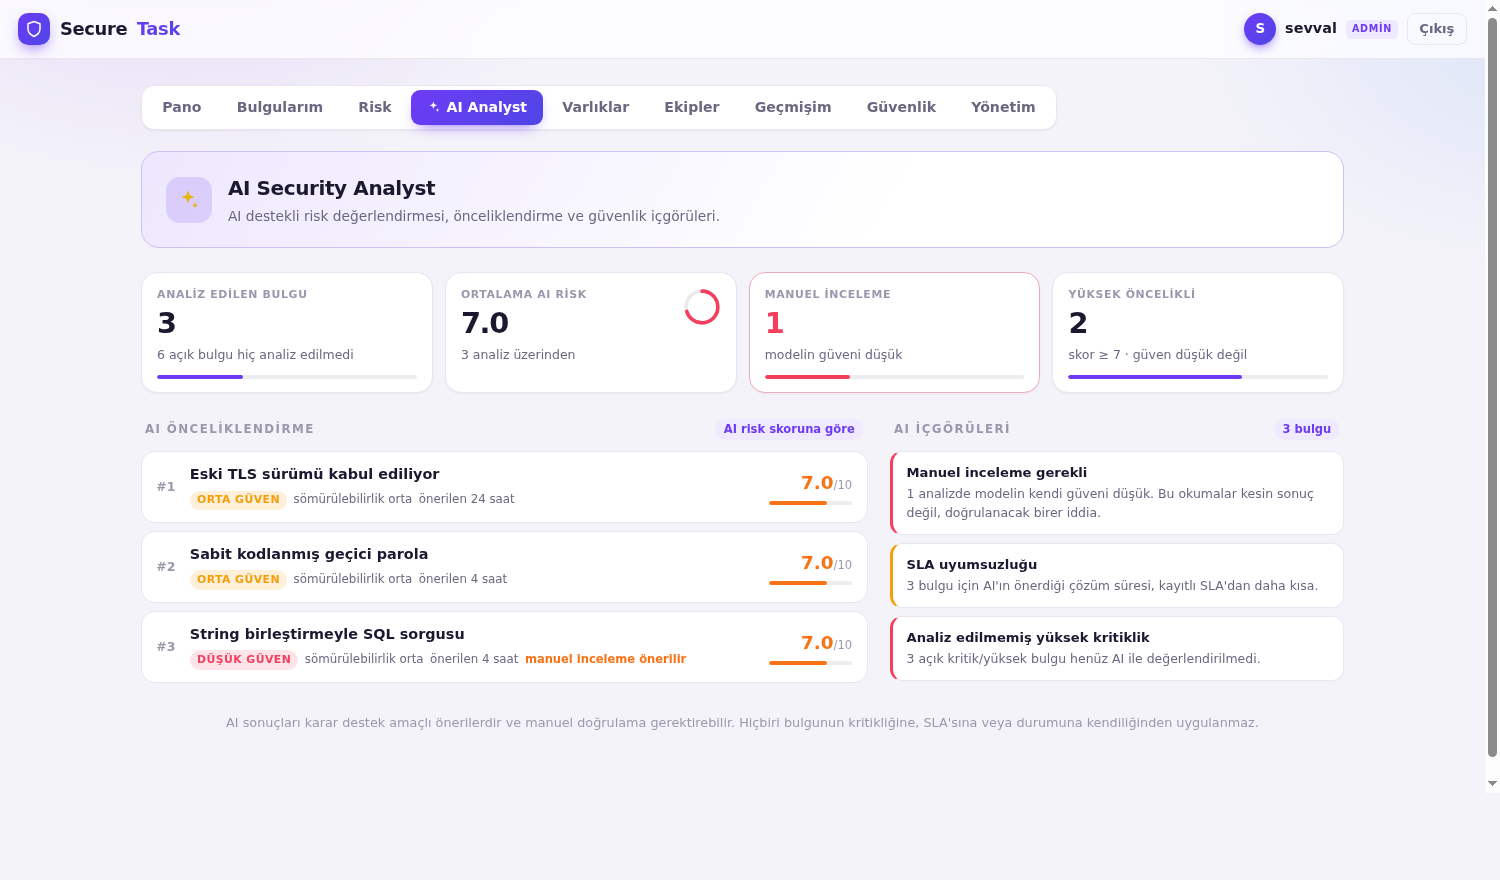
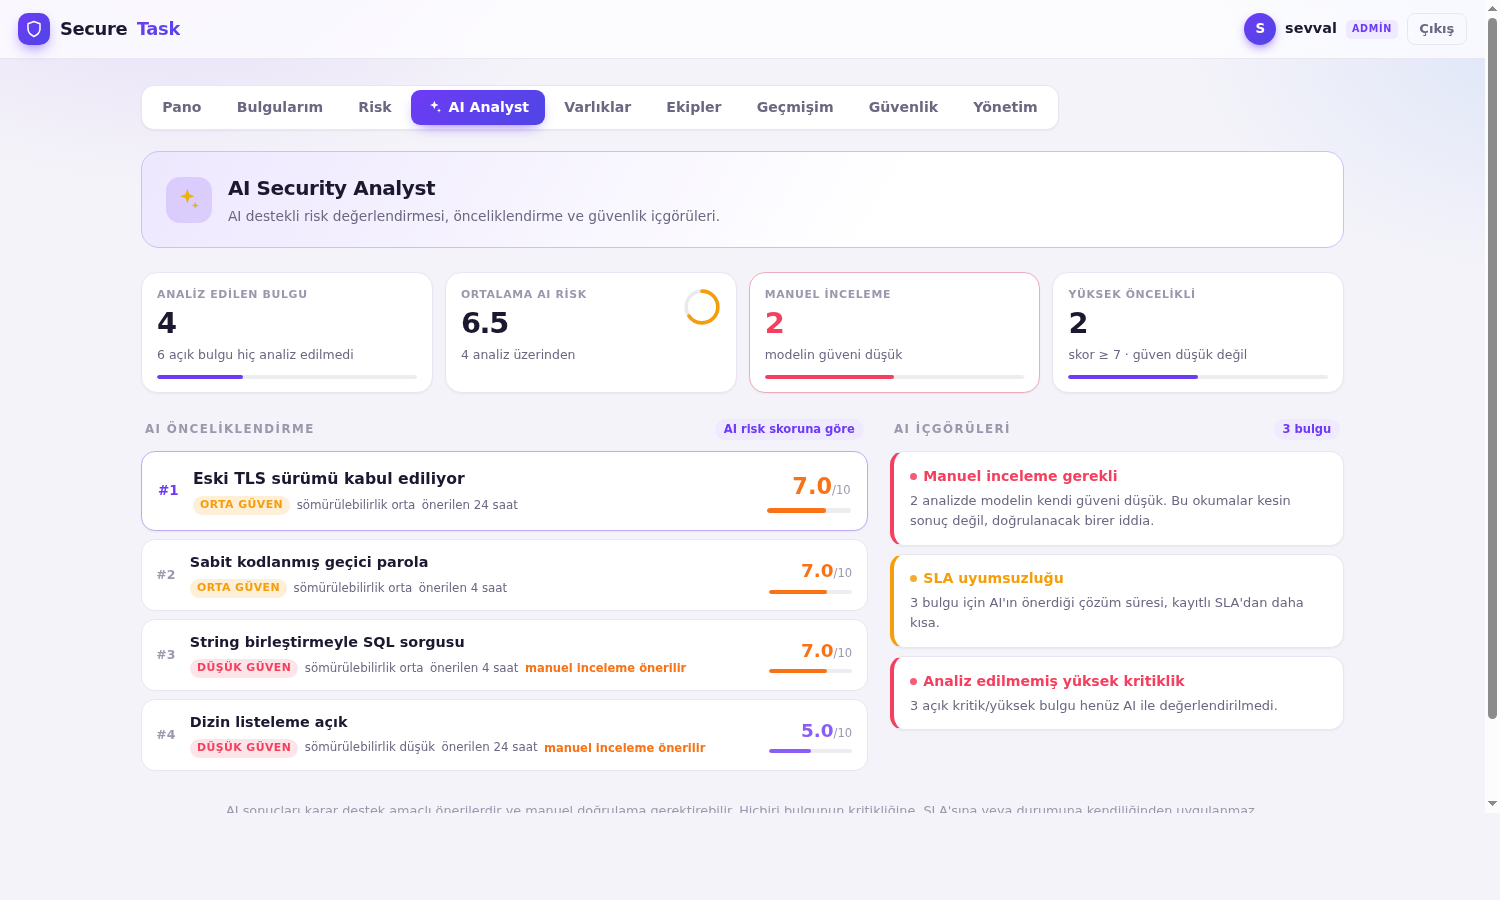
Show the value that was there, and weight the page
"Sömürülebilirlik undefined" was not a missing value. The database had
medium/low/low all along and the summary endpoint returns them — but the
process serving :8000 had been started before that endpoint grew the field, and
static files are read from disk per request, so the new front-end was talking
to an old back-end. Restarting it is the fix; the field arrives.

The rendering is still wrong to have printed it, so a chip whose value is
missing is now not drawn at all. Not "Belirtilmedi" either: exploitability is
something the model says, and a placeholder in its place reads like an
assessment nobody made.

Weight, without redesigning anything. The highest-scoring card gets more room,
a slightly heavier border, a larger score and a thicker bar — a difference of
degree from the card below it, not a different kind of card, and no colour or
gradient it does not share with the rest. Insight cards get more padding, a
larger title, a thicker left edge and a dot in the title that repeats the edge
colour, so the kind of insight reads before the sentence does.

And the sparkle is a size up in the tab, the hero, the button and the drawer
heading.

diff --git a/app/static/app.css b/app/static/app.css
@@ -400,7 +400,7 @@
   }
   .drawer-head h2 { margin: 0; font-size: .95rem; display: flex; align-items: center; gap: .4rem; }
   .drawer-head h2 .ai-mark { display: inline-flex; color: var(--ai-spark); }
-  .drawer-head h2 .ai-mark svg { width: 16px; height: 16px; display: block; }
+  .drawer-head h2 .ai-mark svg { width: 18px; height: 18px; display: block; }
   .drawer-sub { margin: .25rem 0 0; font-size: .8rem; color: var(--muted); }
   .drawer-body { padding: 1.1rem 1.2rem 2rem; overflow-y: auto; }
 
@@ -453,7 +453,7 @@
     box-shadow: 0 6px 14px -8px var(--accent);
   }
   .btn.ai-btn .ai-mark { display: inline-flex; color: var(--ai-spark); }
-  .btn.ai-btn .ai-mark svg { width: 16px; height: 16px; display: block; }
+  .btn.ai-btn .ai-mark svg { width: 18px; height: 18px; display: block; }
   /* Analiz edilmiş satır skorunu taşıyor: hangi bulguya bakıldığı listede,
      tıklamadan görünüyor. Biraz daha koyu çerçeve — dolu bir rozet gibi. */
   .btn.ai-btn.analyzed {
@@ -561,7 +561,7 @@
      tekrarlanmıyor — ikisi de kendi sayfalarında duruyor. */
   .tab-ai { display: inline-flex; align-items: center; gap: .35rem; }
   .tab-ai .ai-mark { display: inline-flex; color: var(--ai-spark); }
-  .tab-ai .ai-mark svg { width: 14px; height: 14px; display: block; }
+  .tab-ai .ai-mark svg { width: 16px; height: 16px; display: block; }
   /* Sekme etkin olduğunda uygulamanın kendi mor dolgusu; parıltı beyaza döner
      ki dolgunun üstünde okunur kalsın. */
   .tab-ai.active .ai-mark { color: #fff; }
@@ -580,7 +580,7 @@
     width: 46px; height: 46px; border-radius: 14px; color: var(--ai-spark);
     background: color-mix(in srgb, var(--accent) 16%, transparent);
   }
-  .hero-mark svg { width: 24px; height: 24px; }
+  .hero-mark svg { width: 27px; height: 27px; }
 
   /* KPI'ların içindeki küçük göstergeler: sayı nereden geliyor onu söylüyorlar,
      süs değiller. */
@@ -614,6 +614,18 @@
     border-color: color-mix(in srgb, var(--accent) 38%, var(--line));
     box-shadow: var(--sh); transform: translateY(-1px);
   }
+  /* En yüksek riskli olan bir tık öne çıkıyor: biraz daha yer, biraz daha
+     belirgin çerçeve, biraz daha büyük skor. Ayrı bir renk ya da gradient
+     değil — sıradaki karttan farkı derece, tür değil. */
+  .prio.top {
+    padding: .95rem 1rem;
+    border-color: color-mix(in srgb, var(--accent) 34%, var(--line));
+    box-shadow: var(--sh-sm);
+  }
+  .prio.top .prio-name { font-size: .98rem; }
+  .prio.top .prio-rank { color: var(--accent); font-size: .84rem; }
+  .prio.top .prio-score > b { font-size: 1.4rem; }
+  .prio.top .prio-bar { height: 5px; }
   .prio-rank {
     flex: 0 0 auto; font-size: .78rem; font-weight: 800; color: var(--faint);
     font-variant-numeric: tabular-nums;
@@ -651,15 +663,29 @@
 
   .insights { display: grid; gap: .5rem; }
   .insight {
-    padding: .7rem .85rem; border-radius: 12px; background: var(--card);
-    border: 1px solid var(--line); border-left-width: 3px;
+    padding: .85rem 1rem; border-radius: 14px; background: var(--card);
+    border: 1px solid var(--line); border-left-width: 4px;
+    box-shadow: var(--sh-sm);
   }
-  .insight-title { font-size: .82rem; font-weight: 800; margin-bottom: .15rem; }
-  .insight p { margin: 0; font-size: .78rem; line-height: 1.5; color: var(--muted); }
+  .insight-title {
+    font-size: .88rem; font-weight: 800; margin-bottom: .25rem;
+    display: flex; align-items: center; gap: .4rem;
+  }
+  /* Sol kenardaki rengin aynısından küçük bir nokta: kenar çizgisi kartın
+     kimliği, nokta da başlığın yanında onu tekrar ediyor. */
+  .insight-title::before {
+    content: ""; width: 7px; height: 7px; border-radius: 50%;
+    background: currentColor; flex-shrink: 0; opacity: .85;
+  }
+  .insight p { margin: 0; font-size: .81rem; line-height: 1.55; color: var(--muted); }
   .i-review, .i-blind { border-left-color: var(--danger); }
+  .i-review .insight-title, .i-blind .insight-title { color: var(--danger); }
   .i-up { border-left-color: var(--sla-hot); }
+  .i-up .insight-title { color: var(--sla-hot); }
   .i-clock { border-left-color: var(--sla-warm); }
+  .i-clock .insight-title { color: var(--sla-warm); }
   .i-down, .i-repeat { border-left-color: var(--accent); }
+  .i-down .insight-title, .i-repeat .insight-title { color: var(--accent); }
 
   .empty .ico svg { width: 100%; height: 100%; }
   #emptyMark { color: var(--ai-spark); }

diff --git a/app/static/app.js b/app/static/app.js
@@ -2168,7 +2168,7 @@ function renderPriorities(rows) {
     const { a, f } = r;
     const card = document.createElement("button");
     card.type = "button";
-    card.className = "prio";
+    card.className = "prio" + (i === 0 ? " top" : "");
     card.title = "AI analizini aç";
 
     const rank = document.createElement("span");
@@ -2184,15 +2184,22 @@ function renderPriorities(rows) {
 
     const chips = document.createElement("div");
     chips.className = "prio-chips";
-    const conf = document.createElement("span");
-    conf.className = "conf c-" + a.confidence;
-    conf.textContent = CONF_LABEL[a.confidence] || a.confidence;
-    chips.appendChild(conf);
+    if (CONF_LABEL[a.confidence]) {
+      const conf = document.createElement("span");
+      conf.className = "conf c-" + a.confidence;
+      conf.textContent = CONF_LABEL[a.confidence];
+      chips.appendChild(conf);
+    }
 
-    const expl = document.createElement("span");
-    expl.className = "prio-meta";
-    expl.textContent = `sömürülebilirlik ${EXPL_LABEL[a.exploitability] || a.exploitability}`;
-    chips.appendChild(expl);
+    // Değer yoksa alan hiç çizilmiyor. "undefined" yazmak bir yana, uydurma
+    // bir varsayılan koymak daha kötü olurdu: sömürülebilirlik modelin
+    // söylediği bir şey, biz dolduramayız.
+    if (EXPL_LABEL[a.exploitability]) {
+      const expl = document.createElement("span");
+      expl.className = "prio-meta";
+      expl.textContent = `sömürülebilirlik ${EXPL_LABEL[a.exploitability]}`;
+      chips.appendChild(expl);
+    }
 
     if (a.suggested_sla_hours) {
       const sla = document.createElement("span");
